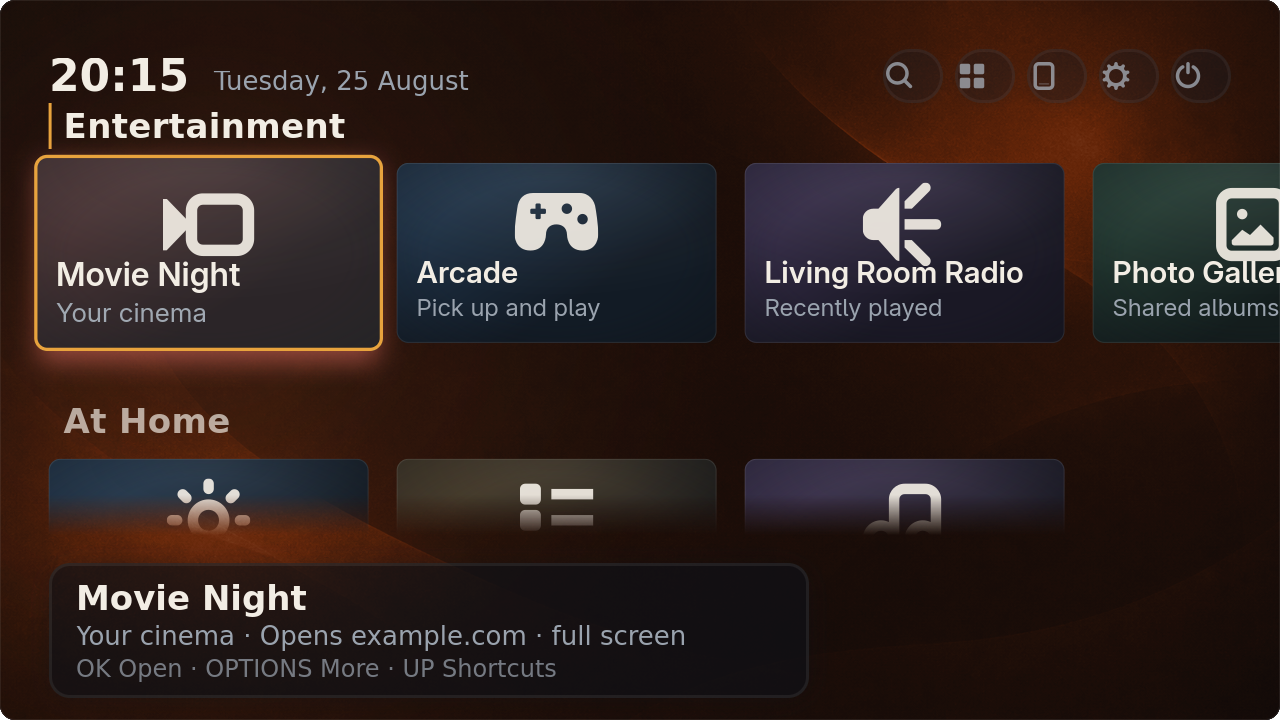
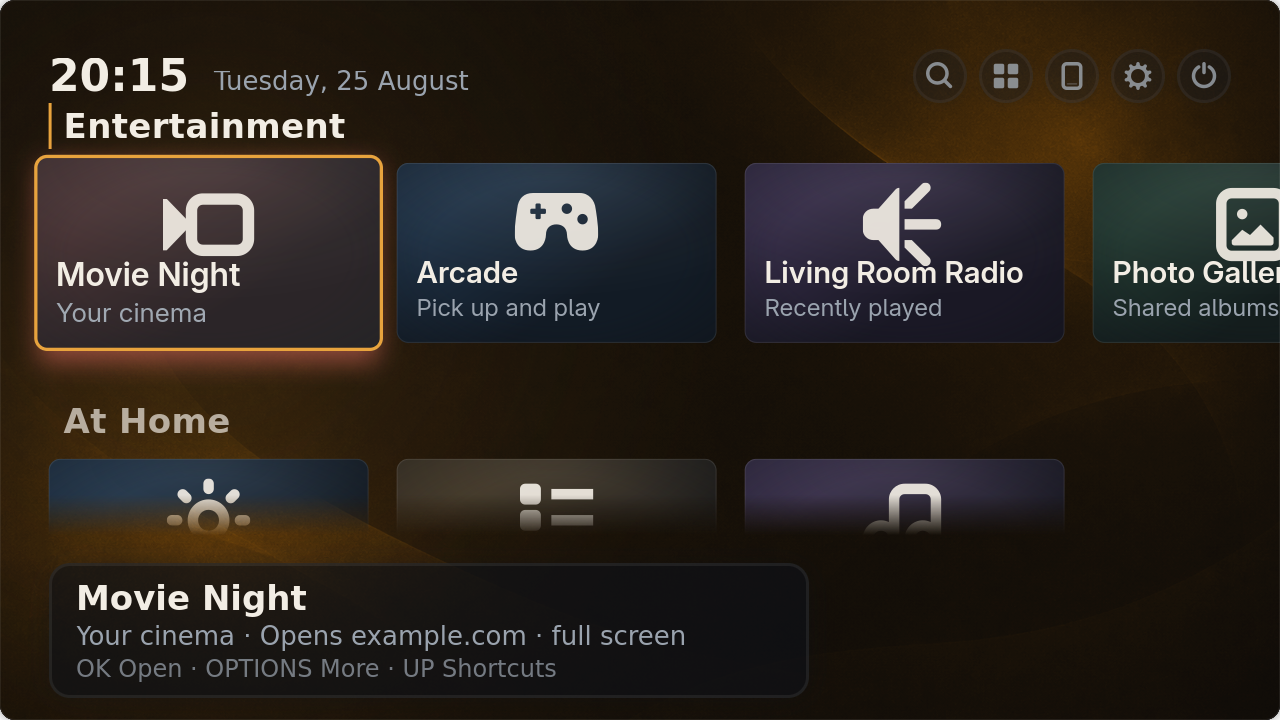
Release 0.2.10 with centred top-bar shortcuts
The top bar asked its child box for each button's width, so a 28px icon
sat at the start of a 54px box — every glyph 13px left of centre — and the
box's request plus the border made the button 60x54 rather than a circle.
Request the square size on the button itself and let the box take its
natural width, which its existing halign centres.

The icon overlay is height-centred too, so the phone connection badge sits
on the glyph's corner instead of below it.

Changed region(s): [[0.6875, 0.0611, 0.9688, 0.1528]]

diff --git a/tests/test_release_preparation.py b/tests/test_release_preparation.py
@@ -21,29 +21,29 @@ def run_script(*arguments: str) -> subprocess.CompletedProcess[str]:
 def test_release_versions_are_consistent() -> None:
     result = run_script()
     assert result.returncode == 0, result.stderr
-    assert "Salon 0.2.9" in result.stdout
+    assert "Salon 0.2.10" in result.stdout
 
 
 def test_debian_changelog_matches_project_version() -> None:
     changelog = (ROOT / "debian" / "changelog").read_text()
-    assert changelog.startswith("salon (0.2.9-1) ")
+    assert changelog.startswith("salon (0.2.10-1) ")
 
 
 def test_release_tag_must_match_project_version() -> None:
     result = run_script("--tag", "v9.9.9")
     assert result.returncode == 1
-    assert "expected 'v0.2.9'" in result.stderr
+    assert "expected 'v0.2.10'" in result.stderr
 
 
 def test_prepared_manifest_pins_the_release_commit(tmp_path: Path) -> None:
     output = tmp_path / "manifest.yaml"
     commit = "0123456789abcdef0123456789abcdef01234567"
     result = run_script(
-        "--tag", "v0.2.9", "--commit", commit, "--output", str(output)
+        "--tag", "v0.2.10", "--commit", commit, "--output", str(output)
     )
     assert result.returncode == 0, result.stderr
 
     manifest = output.read_text()
     source = "url: https://github.com/alexydaher/salon.git"
     salon_source = manifest[manifest.index(source) :]
-    assert f"tag: v0.2.9\n        commit: {commit}\n" in salon_source
+    assert f"tag: v0.2.10\n        commit: {commit}\n" in salon_source

diff --git a/salon/ui/status_actions.py b/salon/ui/status_actions.py
@@ -93,6 +93,9 @@ class StatusBar(Gtk.Box):
         image = Gtk.Image.new_from_icon_name(icon_name)
         icon = Gtk.Overlay()
         icon.set_child(image)
+        # Height-centred, and only as tall as the glyph: a filled overlay
+        # would put the presence badge below the icon rather than on it.
+        icon.set_valign(Gtk.Align.CENTER)
         badge = Gtk.Box()
         badge.add_css_class("salon-connection-badge")
         badge.set_halign(Gtk.Align.END)
@@ -135,10 +138,14 @@ class StatusBar(Gtk.Box):
         size = scale.px(54.0)
         self._button_height = size
         for button in self._buttons:
-            button.set_size_request(-1, size)
+            # Square at rest, so an icon-only button is a circle. The width
+            # has to be requested on the *button*: asking the child box for
+            # it instead made the box wider than its icon, and a Gtk.Box
+            # packs a non-expanding child at its start rather than centring
+            # it — which is how every glyph ended up left of centre.
+            button.set_size_request(size, size)
         for index, box in enumerate(self._button_boxes):
             box.set_spacing(scale.px(10.0))
-            box.set_size_request(size, -1)
             self._button_images[index].set_pixel_size(scale.px(28.0))
             badge_size = scale.px(10.0)
             self._connection_badges[index].set_size_request(badge_size, badge_size)

diff --git a/README.md b/README.md
@@ -33,14 +33,14 @@ Flatpak updates.
 If you prefer a standalone download, open the [latest release][latest-release]
 and download the bundle for your computer:
 
-* `Salon-v0.2.9-x86_64.flatpak` for most Intel and AMD PCs.
-* `Salon-v0.2.9-aarch64.flatpak` for ARM64 computers.
+* `Salon-v0.2.10-x86_64.flatpak` for most Intel and AMD PCs.
+* `Salon-v0.2.10-aarch64.flatpak` for ARM64 computers.
 
 Open the downloaded file with your software installer, or install it from a
 terminal:
 
 ```sh
-flatpak install --user ~/Downloads/Salon-v0.2.9-x86_64.flatpak
+flatpak install --user ~/Downloads/Salon-v0.2.10-x86_64.flatpak
 ```
 
 Use the `aarch64` filename instead on ARM64. If you are unsure which one you
@@ -59,7 +59,7 @@ Standalone bundles do not update automatically. To upgrade one, download the
 bundle from the next release and install it over the existing copy:
 
 ```sh
-flatpak install --user --or-update ~/Downloads/Salon-v0.2.9-x86_64.flatpak
+flatpak install --user --or-update ~/Downloads/Salon-v0.2.10-x86_64.flatpak
 ```
 
 Your settings and catalogue are preserved. To uninstall Salon and remove its
@@ -74,7 +74,7 @@ Each release also includes `SHA256SUMS` if you want to verify the download.
 Run the following from the directory containing both files:
 
 ```sh
-grep 'Salon-v0.2.9-x86_64.flatpak$' SHA256SUMS | sha256sum --check -
+grep 'Salon-v0.2.10-x86_64.flatpak$' SHA256SUMS | sha256sum --check -
 ```
 
 Change the filename to the ARM64 bundle when appropriate.
@@ -82,12 +82,12 @@ Change the filename to the ARM64 bundle when appropriate.
 ### Native Debian package
 
 The native package enables Salon's login-screen sessions, host power actions,
-and the rest of its GNOME integration. Download `salon_0.2.9-1_all.deb` from
+and the rest of its GNOME integration. Download `salon_0.2.10-1_all.deb` from
 the [latest release][latest-release], then install it with APT so dependencies
 are resolved automatically:
 
 ```sh
-sudo apt install ~/Downloads/salon_0.2.9-1_all.deb
+sudo apt install ~/Downloads/salon_0.2.10-1_all.deb
 ```
 
 The package is architecture-independent and works on both AMD64 and ARM64,
@@ -390,11 +390,11 @@ The capture uses a fixed clock, local artwork, isolated settings/cache
 directories, and real in-process GTK rendering at 1280×720.
 
 A tag matching that checked version triggers the release build. For example,
-after the 0.2.9 changes have been committed and pushed:
+after the 0.2.10 changes have been committed and pushed:
 
 ```sh
-git tag -a v0.2.9 -m "Salon 0.2.9"
-git push origin v0.2.9
+git tag -a v0.2.10 -m "Salon 0.2.10"
+git push origin v0.2.10
 ```
 
 GitHub Actions builds x86-64 and ARM64 Flatpak bundles and a native Debian

diff --git a/CHANGELOG.md b/CHANGELOG.md
@@ -8,6 +8,16 @@ Notable changes per release. Dates are ISO. This project follows
 
 ## Unreleased
 
+## 0.2.10 — 2026-08-25
+
+### Centred top-bar shortcuts
+
+* The top bar's shortcut buttons are square at rest again, so each
+  icon-only button renders as a circle, and every glyph is centred
+  within it instead of sitting left of centre.
+* The phone connection dot now sits on the phone glyph's corner
+  rather than below it.
+
 ## 0.2.9 — 2026-08-25
 
 ### Reliable release validation

diff --git a/docs/release-checklist.md b/docs/release-checklist.md
@@ -1,6 +1,6 @@
 # Salon physical release checklist
 
-Release candidate: `0.2.9`
+Release candidate: `0.2.10`
 Checklist updated: 2026-08-25  
 Status: **not physically verified**
 
